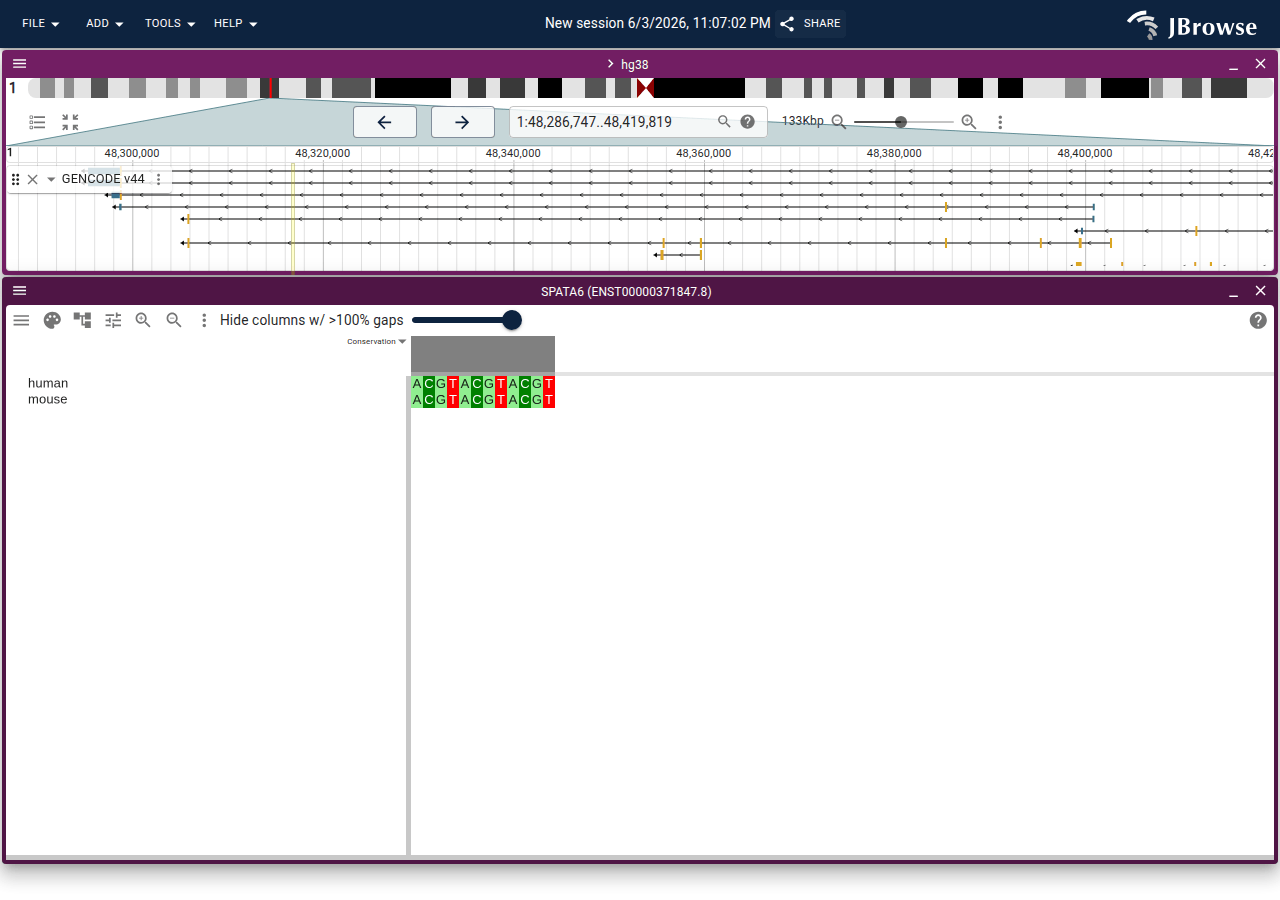
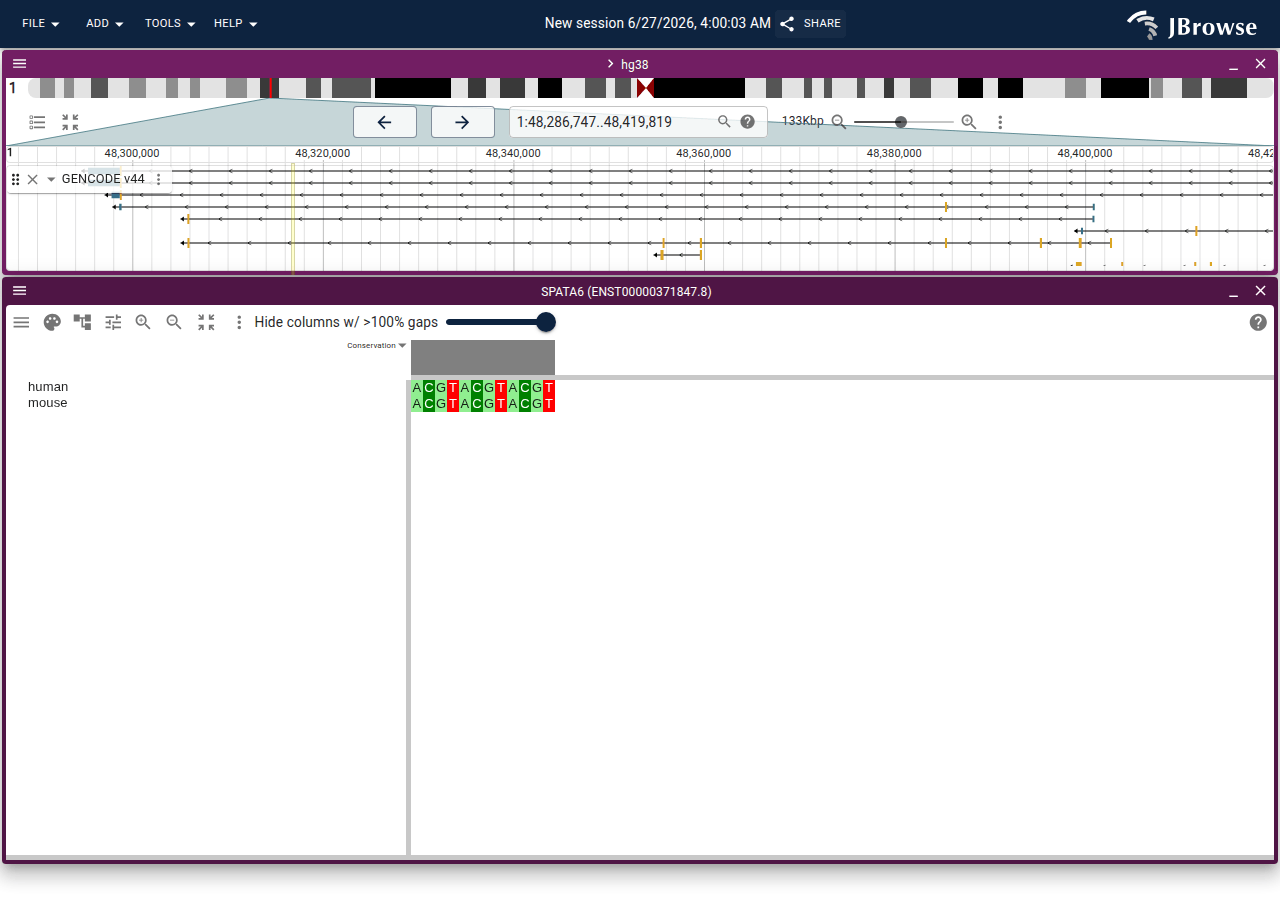
Simplify init

diff --git a/src/LaunchMsaViewExtensionPoint/index.ts b/src/LaunchMsaViewExtensionPoint/index.ts
@@ -1,73 +1,56 @@
 import type PluginManager from '@jbrowse/core/PluginManager'
 import type { AbstractSessionModel } from '@jbrowse/core/util'
 
+interface LaunchMsaViewArgs {
+  session: AbstractSessionModel
+  data?: { msa: string; tree?: string }
+  msaFileLocation?: { uri: string }
+  msaIndexedLocation?: { uri: string }
+  msaName?: string
+  treeFileLocation?: { uri: string }
+  connectedViewId?: string
+  connectedFeature?: Record<string, unknown>
+  displayName?: string
+  colorSchemeName?: string
+  colWidth?: number
+  rowHeight?: number
+  treeAreaWidth?: number
+  treeWidth?: number
+  drawNodeBubbles?: boolean
+  labelsAlignRight?: boolean
+  showBranchLen?: boolean
+  querySeqName?: string
+  highlightColumns?: number[]
+}
+
 export default function LaunchMsaViewExtensionPointF(
   pluginManager: PluginManager,
 ) {
   pluginManager.addToExtensionPoint(
     'LaunchView-MsaView',
-    // @ts-expect-error
-    ({
-      session,
-      data,
-      msaFileLocation,
-      msaIndexedLocation,
-      msaName,
-      treeFileLocation,
-      connectedViewId,
-      connectedFeature,
-      displayName,
-      colorSchemeName,
-      colWidth,
-      rowHeight,
-      treeAreaWidth,
-      treeWidth,
-      drawNodeBubbles,
-      labelsAlignRight,
-      showBranchLen,
-      querySeqName,
-      highlightColumns,
-    }: {
-      session: AbstractSessionModel
-      data?: { msa: string; tree?: string }
-      msaFileLocation?: { uri: string }
-      msaIndexedLocation?: { uri: string }
-      msaName?: string
-      treeFileLocation?: { uri: string }
-      connectedViewId?: string
-      connectedFeature?: Record<string, unknown>
-      displayName?: string
-      colorSchemeName?: string
-      colWidth?: number
-      rowHeight?: number
-      treeAreaWidth?: number
-      treeWidth?: number
-      drawNodeBubbles?: boolean
-      labelsAlignRight?: boolean
-      showBranchLen?: boolean
-      querySeqName?: string
-      highlightColumns?: number[]
-    }) => {
+    (args: LaunchMsaViewArgs) => {
+      const {
+        session,
+        data,
+        msaFileLocation,
+        msaIndexedLocation,
+        msaName,
+        treeFileLocation,
+        querySeqName,
+        ...rest
+      } = args
+
       if (!data && !msaFileLocation && !msaIndexedLocation) {
         throw new Error(
           'No MSA data or file location provided when launching MSA view',
         )
       }
 
+      // all data sources flow through `init` so processInit is the single place
+      // that resolves them (AlphaFold detection, native filehandle loading, etc.)
       session.addView('MsaView', {
         type: 'MsaView',
-        displayName,
-        connectedViewId,
-        connectedFeature,
-        colorSchemeName,
-        colWidth,
-        rowHeight,
-        treeAreaWidth,
-        treeWidth,
-        drawNodeBubbles,
-        labelsAlignRight,
-        showBranchLen,
-        highlightColumns,
+        ...rest,
         init: {
           msaData: data?.msa,
           treeData: data?.tree,
@@ -78,6 +61,8 @@ export default function LaunchMsaViewExtensionPointF(
           querySeqName,
         },
       })
+
+      return args
     },
   )
 }

diff --git a/src/MsaViewPanel/afterCreateAutoruns.ts b/src/MsaViewPanel/afterCreateAutoruns.ts
@@ -128,21 +128,25 @@ export function autoLoadProteinDomains(self: JBrowsePluginMsaViewModel) {
   }
 }
 
+// Resolve the declarative `init` launch contract once. Inline strings go straight
+// to the data model; URLs are handed to react-msaview's native filehandle loaders
+// (openLocation + progress + abort + CORS-proxy) rather than a hand-rolled fetch;
+// the bgzip name-indexed block is the one source with no native loader.
 export function processInit(self: JBrowsePluginMsaViewModel) {
   const { init } = self
   if (init) {
+    const {
+      msaData,
+      msaUrl,
+      msaIndexedLocation,
+      msaName,
+      treeData,
+      treeUrl,
+      querySeqName,
+    } = init
     void (async () => {
       try {
         self.setError(undefined)
-        const {
-          msaData,
-          msaUrl,
-          msaIndexedLocation,
-          msaName,
-          treeData,
-          treeUrl,
-          querySeqName,
-        } = init
 
         if (msaUrl) {
           const id = getUniprotIdFromAlphaFoldUrl(msaUrl)
@@ -151,7 +155,6 @@ export function processInit(self: JBrowsePluginMsaViewModel) {
             self.setQuerySeqName('query')
           }
         }
-
         if (querySeqName) {
           self.setQuerySeqName(querySeqName)
         }
@@ -159,12 +162,7 @@ export function processInit(self: JBrowsePluginMsaViewModel) {
         if (msaData) {
           self.setMSA(msaData)
         } else if (msaUrl) {
-          const response = await fetch(msaUrl)
-          if (!response.ok) {
-            throw new Error(`Failed to fetch MSA: ${response.status}`)
-          }
-          const data = await response.text()
-          self.setMSA(data)
+          self.setMSAFilehandle({ uri: msaUrl, locationType: 'UriLocation' })
         } else if (msaIndexedLocation && msaName) {
           const fasta = await fetchIndexedMsa({
             location: msaIndexedLocation,
@@ -182,12 +180,7 @@ export function processInit(self: JBrowsePluginMsaViewModel) {
         if (treeData) {
           self.setTree(treeData)
         } else if (treeUrl) {
-          const response = await fetch(treeUrl)
-          if (!response.ok) {
-            throw new Error(`Failed to fetch tree: ${response.status}`)
-          }
-          const data = await response.text()
-          self.setTree(data)
+          self.setTreeFilehandle({ uri: treeUrl, locationType: 'UriLocation' })
         }
 
         self.setInit(undefined)

diff --git a/src/MsaViewPanel/types.ts b/src/MsaViewPanel/types.ts
@@ -1,3 +1,6 @@
+// Declarative launch contract, resolved once by processInit. This is also a
+// cross-repo contract: jbrowse-plugin-protein3d builds an MsaView snapshot
+// directly with `init: { msaUrl }`, so these keys must stay stable.
 export interface MsaViewInitState {
   msaData?: string
   msaUrl?: string